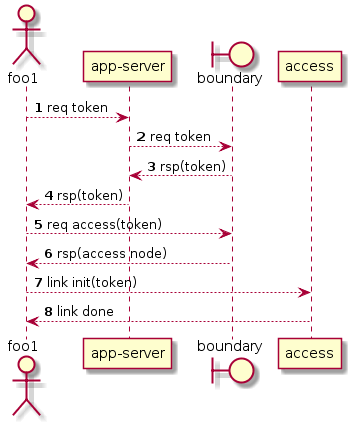
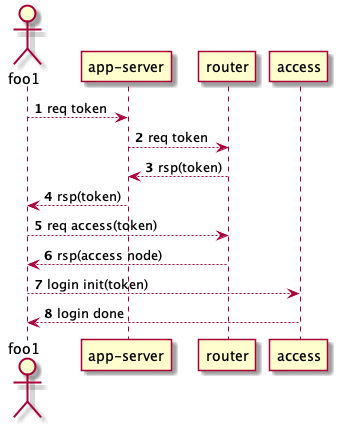
update doc , new process

Changed region(s): [[0.0, 0.0, 0.9792, 0.9788], [0.8605, 0.4588, 0.8902, 0.6424], [0.8605, 0.3671, 0.8902, 0.4282]]

diff --git a/doc/一期设计文档/doc/process.md b/doc/一期设计文档/doc/process.md
@@ -4,8 +4,11 @@
 
 ![avatar](../image/access.png)
 
-* 步骤1-4,需要应用服务获取token, 应用服务需在之前授权并获得有效的key和secret.
-* 边界服务会验证传入的key的合法性, 成功之后才可给予接入token.
+* 步骤1-4,需要通过app-server获取token, app-server 需在之前授权并获得有效的key和secret.
+
+> app-server需另行搭建，只中转token请求，目的是 key 和 secret 不在客户端上保存，不安全
+
+* router服务会验证传入的key的合法性, 成功之后才可给予接入token.
 * 接入规则:
 
 > 需要在请求中加入4个Header
@@ -18,7 +21,7 @@ Sign: 数字签名，算法如下
 Sign = SHA1(AppSecret + Nonce + Timestamp)
 ```
 * 步骤5，客户端请求接入，需带上有效token.
-* 步骤6，边界服务器会根据系统负载情况，分配最合适的access节点地址
+* 步骤6，router服务会根据系统负载情况，分配最合适的access节点地址
 * 步骤7，客户端长链接接入到access节点，并发送登录信息
 * 步骤8，客户端登录IM系统完成，可接入IM服务
 
@@ -27,12 +30,12 @@ Sign = SHA1(AppSecret + Nonce + Timestamp)
 ![avatar](../image/single.png)
 
 * 步骤1，用户发送单聊消息
-* 步骤2，接入服务存储消息
-* 步骤3，接入服务返回，表示用户发送成功，并携带服务器提供的消息ID和存储时间
-* 步骤4，接入服务发送上行消息到 单聊服务做统一处理
-* 步骤5，单聊服务处理完之后，找到目的用户所处的 接入服务器，并转发消息。
+* 步骤2，接入服务转上行消息
+* 步骤3，单聊服务做统一处理，存储消息并回复上行成功ACK给接入服务
+* 步骤4，接入服务返回，表示用户发送成功，并携带服务器提供的消息ID和存储时间
+* 步骤5，单聊服务转下行，找到目的用户所处的 接入服务器，并转发消息。
 * 步骤6，接入服务下发消息至目的用户（推模式）
-* 步骤7，目的用户确认发送完成
+* 步骤7，目的用户确认接收完成
 
 > 注：步骤6，7， 同样可以采用拉模式，即接入服务下发拉取通知，让用户自行拉取消息。
 
@@ -40,12 +43,12 @@ Sign = SHA1(AppSecret + Nonce + Timestamp)
 
 ![avatar](../image/group.png)
 
-* 步骤1，用户发送单聊消息
-* 步骤2，接入服务请求群组服务完成必要的群组验证
-* 步骤3，群组服务通过群组验证
-* 步骤4，接入服务存储消息
-* 步骤5，接入服务返回，表示用户发送成功，并携带服务器提供的消息ID和存储时间
-* 步骤6，接入服务发送上行消息到 群聊服务做统一处理
-* 步骤5，群聊服务对群中所有用户做分发，找到对应的群用户所处的 接入服务器，并转发消息。
-* 步骤6，接入服务下发消息至目的用户
-* 步骤7，目的用户确认发送完成
+* 步骤1，用户发送群聊消息
+* 步骤2，接入服务转上行消息
+* 步骤3，群组服务自身完成群组验证
+* 步骤4，群组服务存储消息
+* 步骤5，群组服务发送上行成功确认
+* 步骤6，接入服务返回，表示用户发送成功，并携带服务器提供的消息ID和存储时间
+* 步骤7，群聊服务对群中所有用户做分发，找到对应的群用户所处的 接入服务器，并转发消息
+* 步骤8，接入服务下发消息至目的用户
+* 步骤9，目的用户确认接收完成
